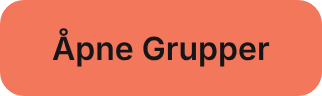
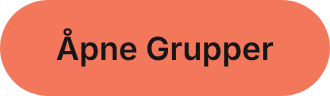
Fully rounded ends on all buttons
Buttons, small buttons, tabs (and the tab bar), emoji buttons and the
email buttons now have semicircular short sides.

Claude-Session: https://claude.ai/code/session_016LtgUhKH6qadC9VunreWBE

diff --git a/public/style.css b/public/style.css
@@ -258,7 +258,7 @@ select {
   background: var(--accent);
   color: var(--accent-ink);
   border: none;
-  border-radius: var(--radius-sm);
+  border-radius: 999px; /* helt runde kortsider på alle knapper */
   padding: 12px 20px;
   cursor: pointer;
   user-select: none;
@@ -267,7 +267,7 @@ select {
   text-decoration: none;
 }
 .btn.block { width: 100%; }
-.btn.small { min-height: 40px; font-size: 0.9rem; padding: 8px 14px; border-radius: 10px; }
+.btn.small { min-height: 40px; font-size: 0.9rem; padding: 8px 16px; border-radius: 999px; }
 .btn.secondary { background: var(--surface-2); color: var(--text); border: 1px solid var(--surface-3); }
 .btn.soft { background: var(--accent-soft); color: var(--accent-soft-ink); }
 .btn.danger { background: var(--danger-soft); color: var(--danger); }
@@ -513,7 +513,7 @@ select {
 
 .picker { margin-top: 10px; padding: 10px; border-radius: var(--radius-sm); background: var(--surface-2); }
 .stickers { display: grid; grid-template-columns: repeat(6, minmax(0, 1fr)); gap: 4px; }
-.stickers button { min-height: 44px; border: none; border-radius: 10px; background: transparent; font-size: 1.4rem; cursor: pointer; min-width: 0; }
+.stickers button { min-height: 44px; border: none; border-radius: 999px; background: transparent; font-size: 1.4rem; cursor: pointer; min-width: 0; }
 .stickers button.selected { background: var(--accent-soft); box-shadow: inset 0 0 0 2px var(--accent); }
 .stickers button .icon { color: var(--text-3); }
 .colors { display: flex; gap: 10px; flex-wrap: wrap; }
@@ -534,8 +534,8 @@ progress::-moz-progress-bar { background: var(--accent); }
 .warning svg.icon { width: 18px; height: 18px; margin-top: 1px; }
 
 /* ---------- Foresatte ---------- */
-.tabs { display: grid; grid-template-columns: repeat(3, 1fr); gap: 4px; padding: 4px; border-radius: 14px; background: var(--surface-3); margin-bottom: 16px; }
-.tabs button { min-height: 40px; border: none; border-radius: 10px; background: transparent; color: var(--text-2); font-weight: 600; font-size: 0.925rem; cursor: pointer; display: inline-flex; align-items: center; justify-content: center; gap: 6px; }
+.tabs { display: grid; grid-template-columns: repeat(3, 1fr); gap: 4px; padding: 4px; border-radius: 999px; background: var(--surface-3); margin-bottom: 16px; }
+.tabs button { min-height: 40px; border: none; border-radius: 999px; background: transparent; color: var(--text-2); font-weight: 600; font-size: 0.925rem; cursor: pointer; display: inline-flex; align-items: center; justify-content: center; gap: 6px; }
 .tabs button.selected { background: var(--surface); color: var(--text); box-shadow: var(--shadow); }
 .tabs .count { background: var(--danger); color: var(--danger-ink); border-radius: 999px; font-size: 0.7rem; padding: 1px 6px; }
 

diff --git a/server/email.js b/server/email.js
@@ -78,7 +78,7 @@ export function renderEmail({ preheader, heading, paragraphs, button, note }) {
     const img = EMAIL_BUTTONS[button.label] && embed(EMAIL_BUTTONS[button.label], "button@quipu");
     const inner = img
       ? `<img src="cid:${img.cid}" width="${img.width}" height="${img.height}" alt="${escape(button.label)}" style="display:block;border:0">`
-      : `<span style="display:inline-block;padding:14px 26px;border-radius:12px;${lockedBg(C.button)};color:${C.buttonInk};font-size:16px;font-weight:600">${escape(button.label)}</span>`;
+      : `<span style="display:inline-block;padding:14px 28px;border-radius:999px;${lockedBg(C.button)};color:${C.buttonInk};font-size:16px;font-weight:600">${escape(button.label)}</span>`;
     buttonHtml = `
           <tr><td style="padding:8px 0 20px"><a href="${escape(button.url)}" style="text-decoration:none">${inner}</a></td></tr>
           <tr><td>${keepText(`<p style="margin:0 0 16px;font-size:13px;line-height:1.5;color:${C.text}">Virker ikke knappen? Kopier denne lenken inn i nettleseren:<br>${link(button.url)}</p>`)}</td></tr>`;
